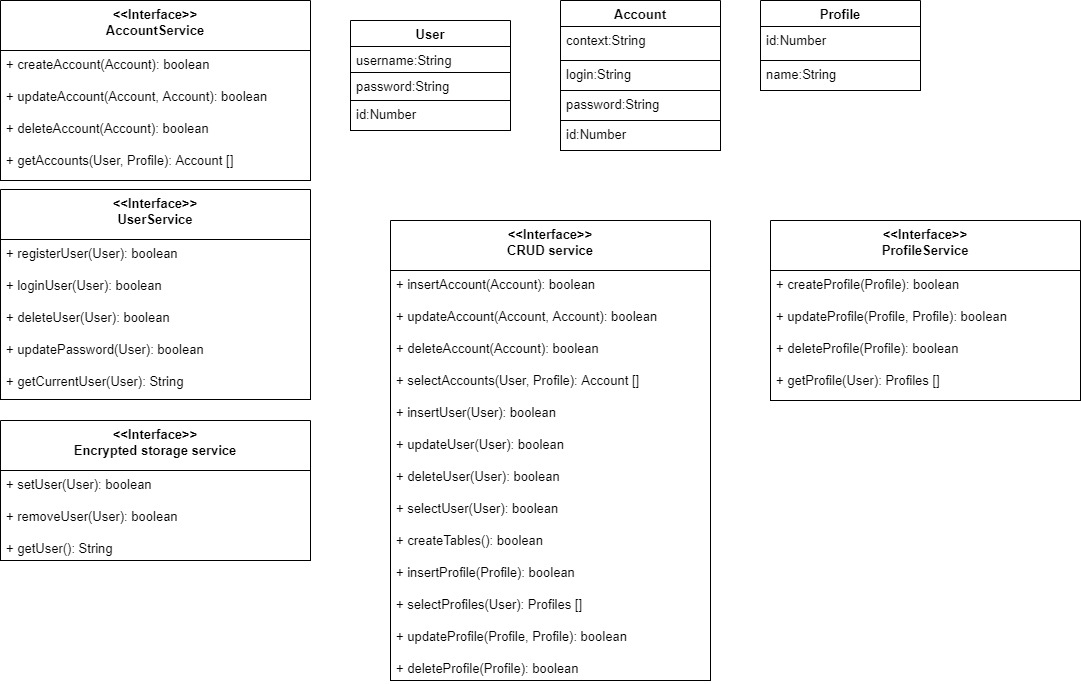
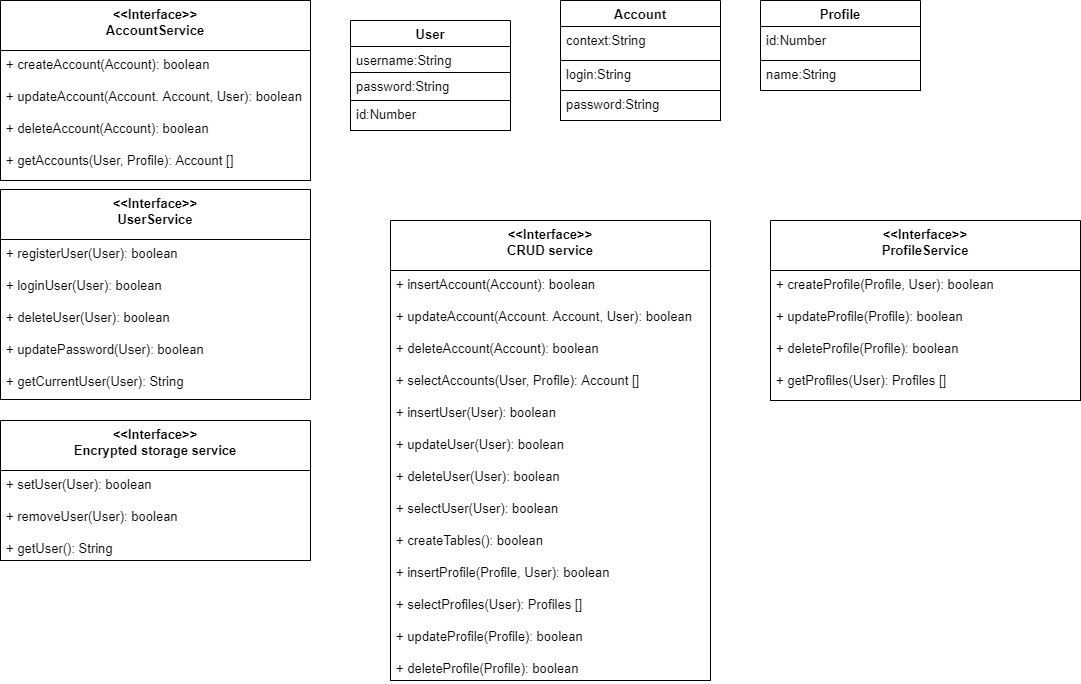
created profile service

diff --git a/KeyPass/src/CRUDService.js b/KeyPass/src/CRUDService.js
@@ -1,6 +1,7 @@
 import {openDatabase} from 'react-native-sqlite-storage';
 import Account from './Account';
 import User from './User';
+import Profile from './Profile';
 
 export default class CRUDService {
   #db = '';
@@ -237,14 +238,109 @@ export default class CRUDService {
     });
     this.#db.transaction(tx => {
       tx.executeSql(
+        'CREATE TABLE IF NOT EXISTS Profiles(' +
+          'Id_profile	INTEGER NOT NULL UNIQUE, ' +
+          'Name	TEXT NOT NULL UNIQUE, ' +
+          'Id_user INTEGER NOT NULL, ' +
+          'FOREIGN KEY(Id_user) REFERENCES Users(Id_user),' +
+          'PRIMARY KEY(Id_profile AUTOINCREMENT)); ',
+      );
+    });
+    this.#db.transaction(tx => {
+      tx.executeSql(
         'CREATE TABLE IF NOT EXISTS Keys(' +
           'Id_user INTEGER NOT NULL,' +
+          'Id_profile INTEGER NOT NULL,' +
           'Context TEXT NOT NULL, ' +
           'Login	TEXT NOT NULL, ' +
           'Password	TEXT NOT NULL, ' +
           'FOREIGN KEY(Id_user) REFERENCES Users(Id_user),' +
-          'PRIMARY KEY(Context, Login));',
+          'FOREIGN KEY(Id_profile) REFERENCES Profiles(Id_profile),' +
+          'PRIMARY KEY(Context, Login, Id_user));',
       );
+    });
+  }
+  async insertProfile(user, profile) {
+    return new Promise(async (resolve, reject) => {
+      this.#db.transaction(tx => {
+        tx.executeSql(
+          'INSERT INTO Profiles(Id_user, Name) VALUES (?,?)',
+          [user.getId(), profile.getName()],
+          (tx, result) => {
+            if (result.rowsAffected > 0) {
+              resolve(true);
+            }
+          },
+          err => {
+            resolve(false);
+          },
+        );
+      });
+    });
+  }
+
+  async updateProfile(profile) {
+    return new Promise(async (resolve, reject) => {
+      this.#db.transaction(tx => {
+        tx.executeSql(
+          'UPDATE Profiles SET Name=? WHERE Id_profile=?',
+          [profile.getName(), profile.getId()],
+          (tx, result) => {
+            if (result.rowsAffected > 0) {
+              resolve(true);
+            }
+          },
+          err => {
+            resolve(false);
+          },
+        );
+      });
+    });
+  }
+
+  async deleteProfile(profile) {
+    return new Promise((resolve, reject) => {
+      this.#db.transaction(tx => {
+        tx.executeSql(
+          'DELETE FROM Profiles where Id_profile=?',
+          [profile.getId()],
+          (tx, result) => {
+            if (result.rowsAffected > 0) {
+              resolve(true);
+            }
+          },
+          err => {
+            resolve(false);
+          },
+        );
+      });
+    });
+  }
+
+  async selectProfiles(user) {
+    return new Promise((resolve, reject) => {
+      this.#db.transaction(tx => {
+        tx.executeSql(
+          'SELECT * FROM Profiles where Id_user =?',
+          [user.getId()],
+          (tx, result) => {
+            if (result.rows.length > 0) {
+              let profiles = [];
+              for (let i = 0; i < result.rows.length; i++) {
+                profiles.push(
+                  new Profile(
+                    result.rows.item(i).Id_profile,
+                    result.rows.item(i).Name,
+                  ),
+                );
+              }
+              resolve(profiles);
+            } else {
+              resolve([]);
+            }
+          },
+        );
+      });
     });
   }
 }

diff --git a/KeyPass/src/ProfileService.js b/KeyPass/src/ProfileService.js
@@ -1,0 +1,39 @@
+import CRUDService from './CRUDService';
+
+export default class ProfileService {
+  async createProfile(user, profile) {
+    let crudService = new CRUDService();
+    let result = await crudService.insertProfile(user, profile);
+    if (result) {
+      return true;
+    } else {
+      return false;
+    }
+  }
+
+  async updateProfile(profile) {
+    let crudService = new CRUDService();
+    let result = await crudService.updateProfile(profile);
+    if (result) {
+      return true;
+    } else {
+      return false;
+    }
+  }
+
+  async deleteProfile(profile) {
+    let crudService = new CRUDService();
+    let result = await crudService.deleteProfile(profile);
+    if (result) {
+      return true;
+    } else {
+      return false;
+    }
+  }
+
+  async getProfiles(user) {
+    let crudService = new CRUDService();
+    let profiles = await crudService.selectProfiles(user);
+    return profiles;
+  }
+}

diff --git a/KeyPass/src/Profile.js b/KeyPass/src/Profile.js
@@ -1,0 +1,21 @@
+export default class Profile {
+  #id = '';
+  #name = '';
+
+  constructor(id, name) {
+    this.#id = id;
+    this.#name = name;
+  }
+
+  getName() {
+    return this.#name;
+  }
+
+  getId() {
+    return this.#id;
+  }
+
+  setName(name) {
+    this.#name = name;
+  }
+}
